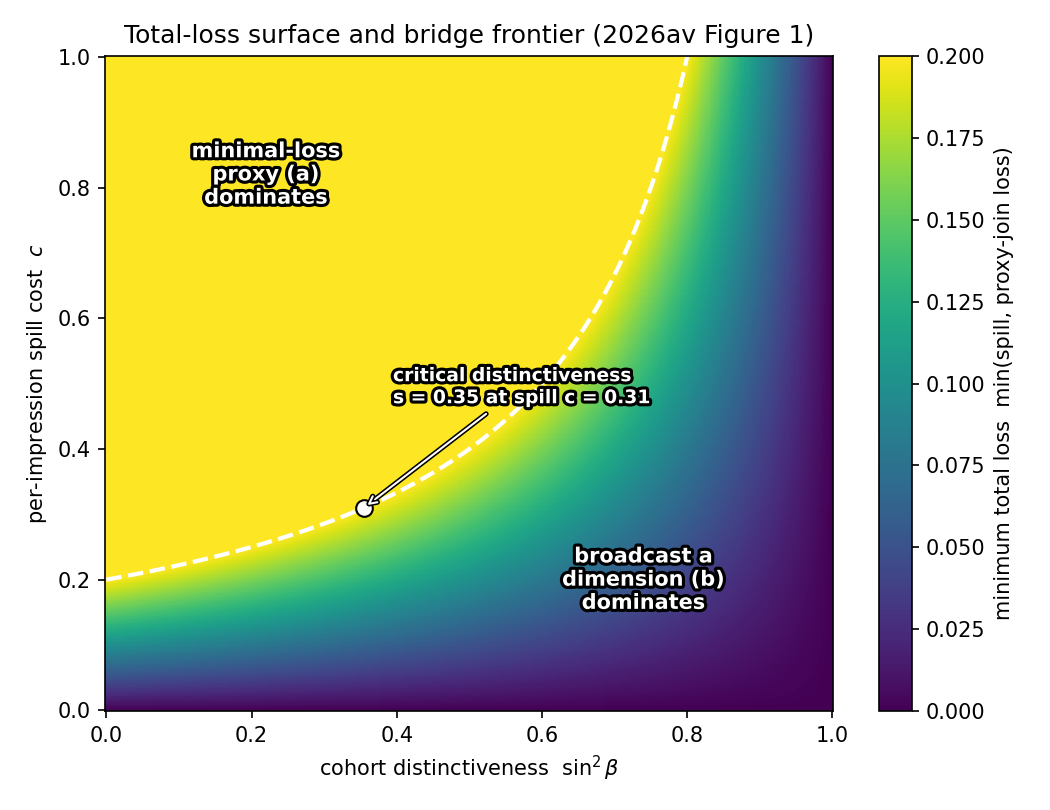
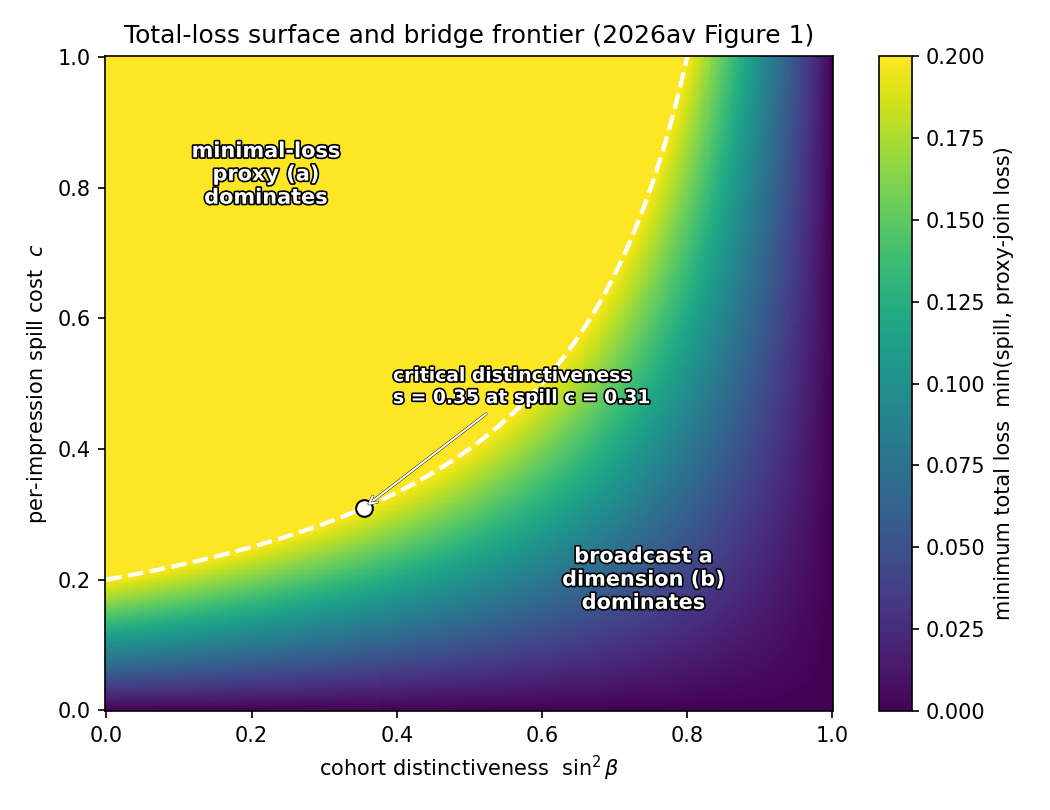
reaching-a-perception (2026av): Keller resonance footnote + thinner figure halo

diff --git a/reaching-a-perception/code/broadcast_channel_loss_surface.py b/reaching-a-perception/code/broadcast_channel_loss_surface.py
@@ -58,7 +58,7 @@ import matplotlib.patheffects as pe
 # A stroke halo makes overlaid text legible on ANY background colour (the
 # viridis surface runs dark-purple -> green -> yellow, so neither plain white
 # nor plain black text is readable everywhere). White text + a black outline is.
-HALO = [pe.withStroke(linewidth=3.0, foreground="black")]
+HALO = [pe.withStroke(linewidth=1.6, foreground="black")]
 
 # --- calibration constants (documented; illustrative, not fit to live data) ---
 L0 = 0.20  # minimal-loss-proxy decision loss L(P*), representative level
@@ -146,7 +146,7 @@ def main():
         arrowprops=dict(
             arrowstyle="->",
             color="white",
-            path_effects=[pe.withStroke(linewidth=2.5, foreground="black")],
+            path_effects=[pe.withStroke(linewidth=1.4, foreground="black")],
         ),
     )
     ann.set_path_effects(HALO)

diff --git a/reaching-a-perception/paper.md b/reaching-a-perception/paper.md
@@ -48,7 +48,7 @@ The objection assumes a single route to action — convert the cohort's perceptu
 
 The first and most theory-native bridge requires no address. We develop it as the headline because it is entailed by the same metamerism machinery the parent paper treats as a source of error.
 
-***Resonance, not addressing.*** A brand signal is, in the spectral model, a composite of up to eight wavelength-beams corresponding to the dimensions, and observers differ in their spectral sensitivity — their profile weights the dimensions differently. A signal emitted strong on the dimension a cohort is sensitive to is salient for that cohort and metameric-to-null for observers insensitive to that dimension, who receive it as an indistinct or ignorable signal. The wavelength does not find the cohort; it selects which observers resonate, and the cohort tunes itself in. One need not know the cohort's address: broadcasting on the dimension and letting perception route the signal substitutes self-selection for addressing. The mechanism is a chemical-assay analogy made literal — rather than separate the analyte first, one adds a reagent only the analyte reacts to. Two precisions keep the model honest. Reception is graded, not binary: salience is monotone in the projection of the emitted signal onto the observer's sensitivity vector, so selectivity is governed by how dimension-distinct the cohort is, and a broadly shared sensitivity yields spill rather than separation. And the economics differ from radio: advertising broadcast pays per impression regardless of whether the receiver resonates, so the spill to non-resonant observers is this bridge's real and only cost, unlike a free one-shot transmission.
+***Resonance, not addressing.*** A brand signal is, in the spectral model, a composite of up to eight wavelength-beams corresponding to the dimensions, and observers differ in their spectral sensitivity — their profile weights the dimensions differently. A signal emitted strong on the dimension a cohort is sensitive to is salient for that cohort and metameric-to-null for observers insensitive to that dimension, who receive it as an indistinct or ignorable signal. The wavelength does not find the cohort; it selects which observers resonate, and the cohort tunes itself in.^[Resonance here is a spectral, signal-matching mechanism — a signal aligned with an observer's dimensional sensitivity, by analogy to physical resonance — and is distinct from the relational *brand resonance* at the top of Keller's customer-based brand-equity pyramid [@keller-2001-building-customerbased-brand], which denotes the depth of a consumer's loyalty, attachment, and active engagement with a brand. The two share a term, not a mechanism: Keller's resonance is an end-state of the consumer-brand relationship, whereas resonance here is a delivery mechanism that routes a signal to whoever is already sensitive to its dimension.] One need not know the cohort's address: broadcasting on the dimension and letting perception route the signal substitutes self-selection for addressing. The mechanism is a chemical-assay analogy made literal — rather than separate the analyte first, one adds a reagent only the analyte reacts to. Two precisions keep the model honest. Reception is graded, not binary: salience is monotone in the projection of the emitted signal onto the observer's sensitivity vector, so selectivity is governed by how dimension-distinct the cohort is, and a broadly shared sensitivity yields spill rather than separation. And the economics differ from radio: advertising broadcast pays per impression regardless of whether the receiver resonates, so the spill to non-resonant observers is this bridge's real and only cost, unlike a free one-shot transmission.
 
 ***The bug becomes a filter.*** Perception-metamerism — one signal inducing divergent perceptions across cohorts that share an aggregate summary — is a mis-targeting loss in the parent account, where its magnitude is the off-axis perceptual variance the aggregate score cannot act on [@zharnikov-2026-spectral-metamerism-brand-perception-projection; @zharnikov-2026au-correspondence-principle-brand]. Broadcast-a-dimension weaponizes the identical phenomenon. The signal is deliberately metameric-to-null for off-target cohorts and salient for the target, so the same quantity that is a loss under push-targeting becomes the self-selection sharpness under broadcast-targeting. We state the resulting prediction as a proposition.
 